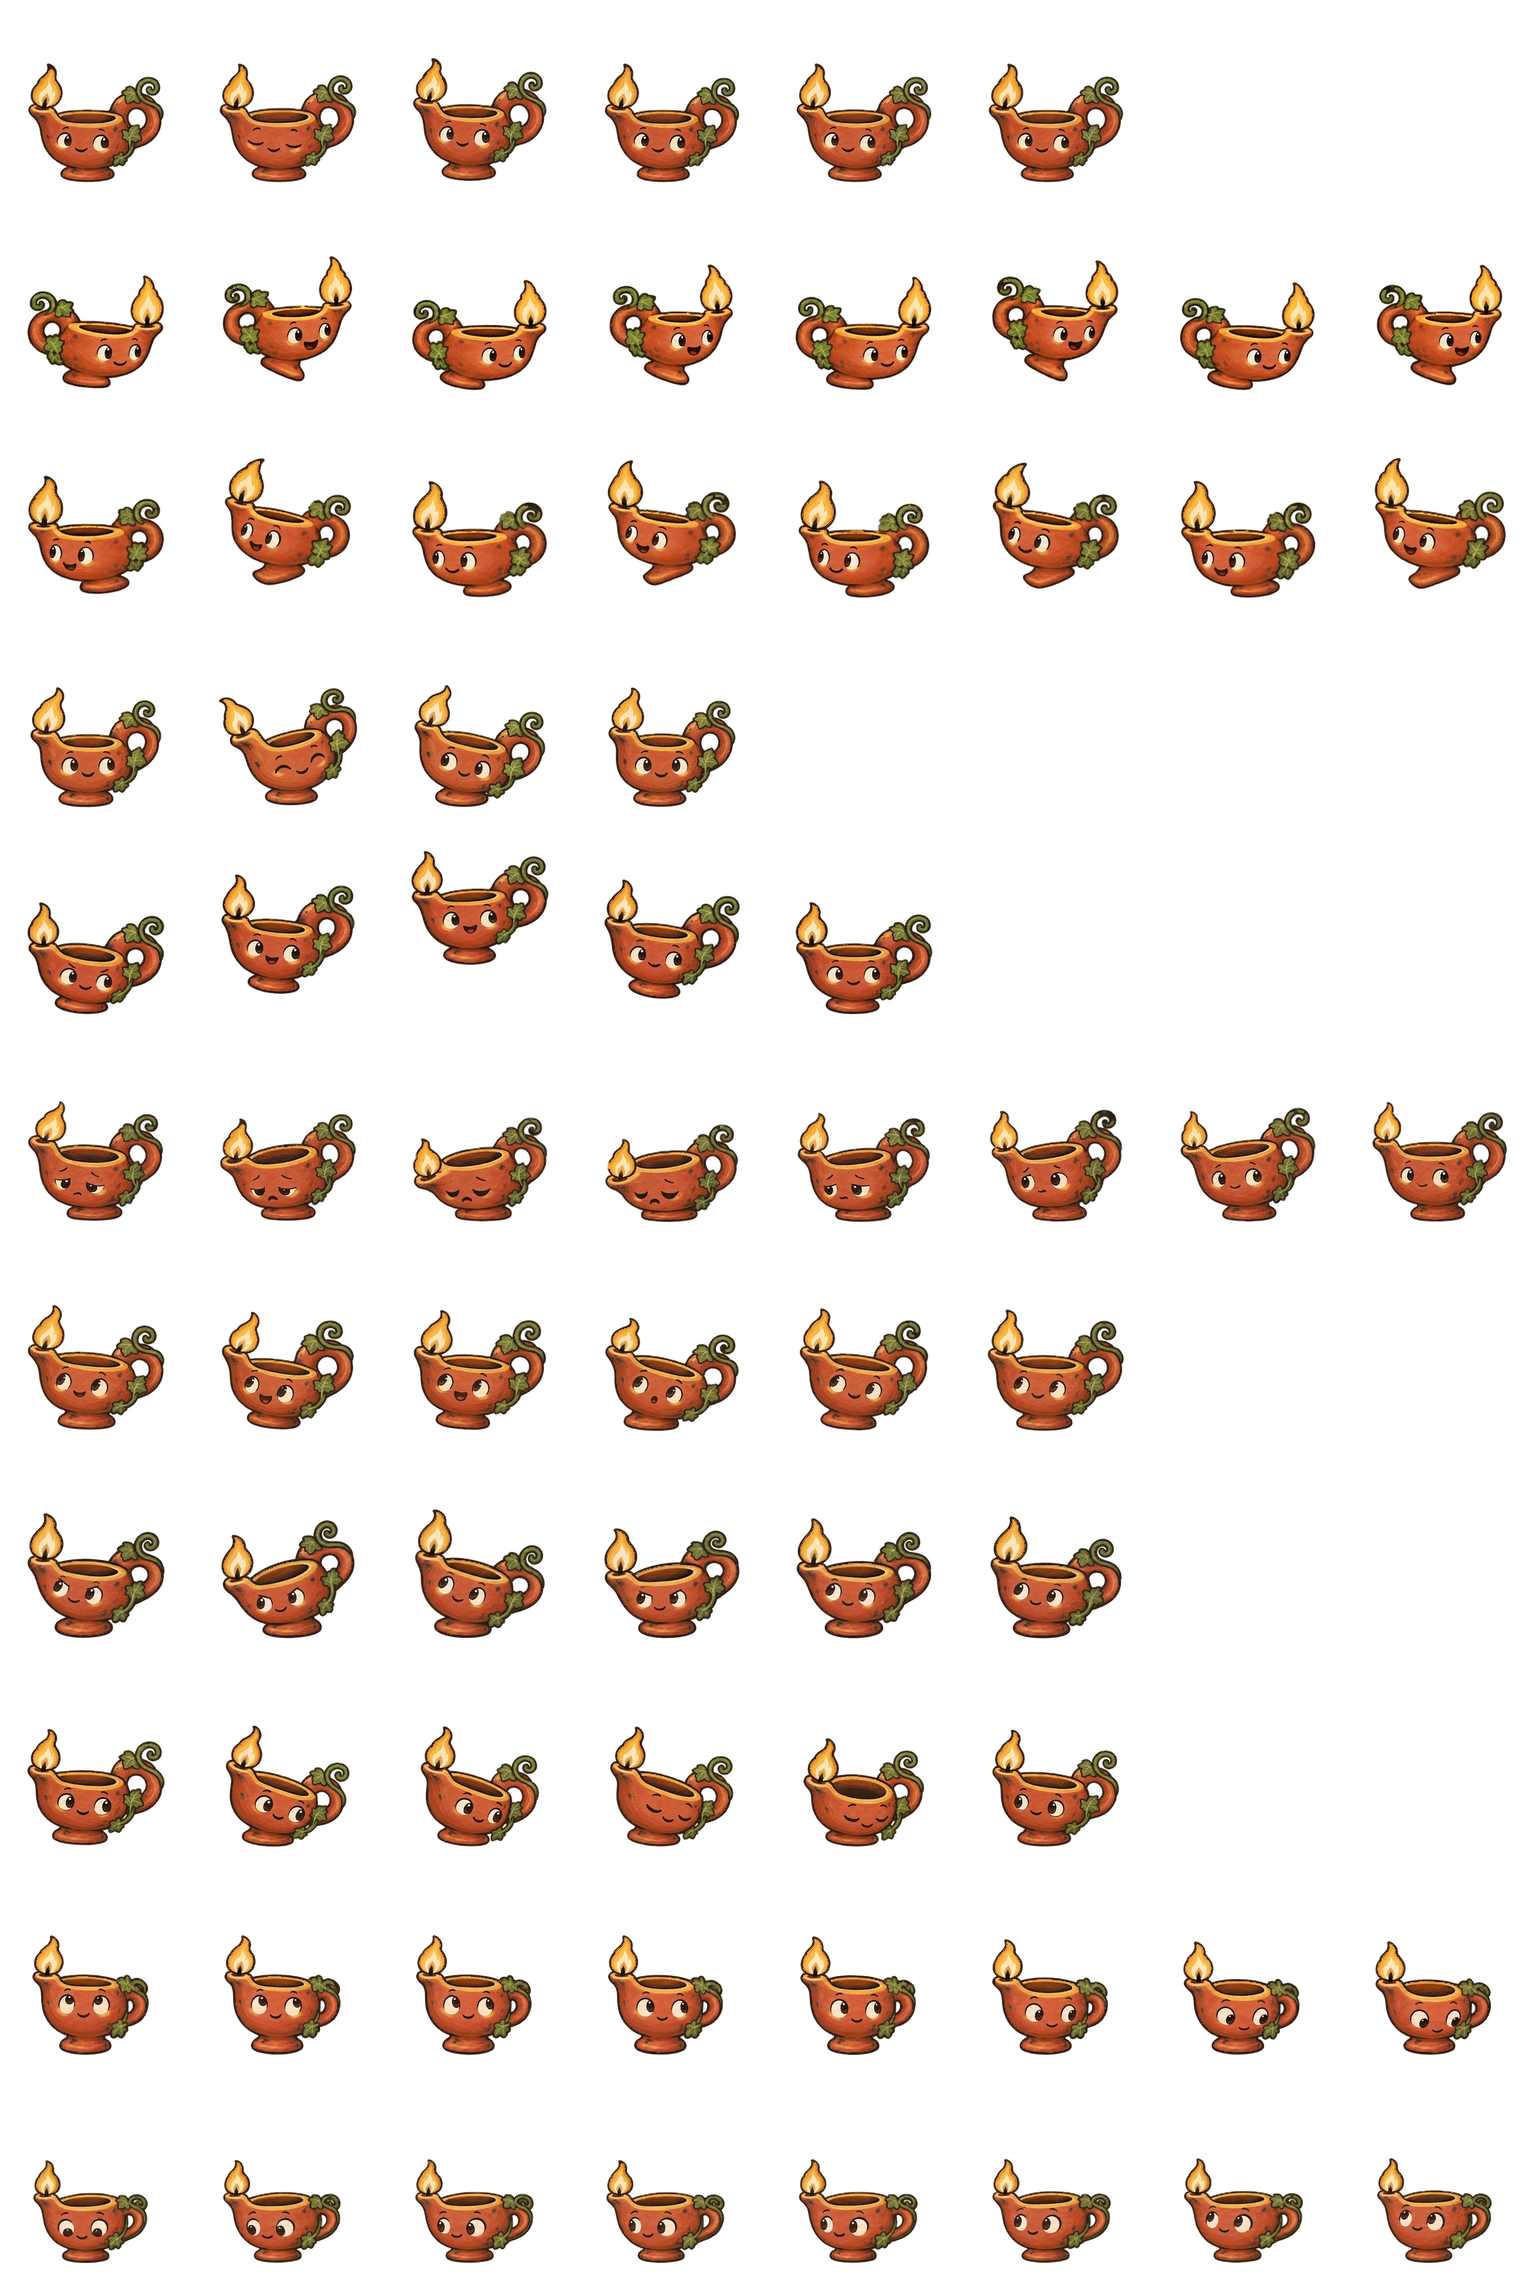
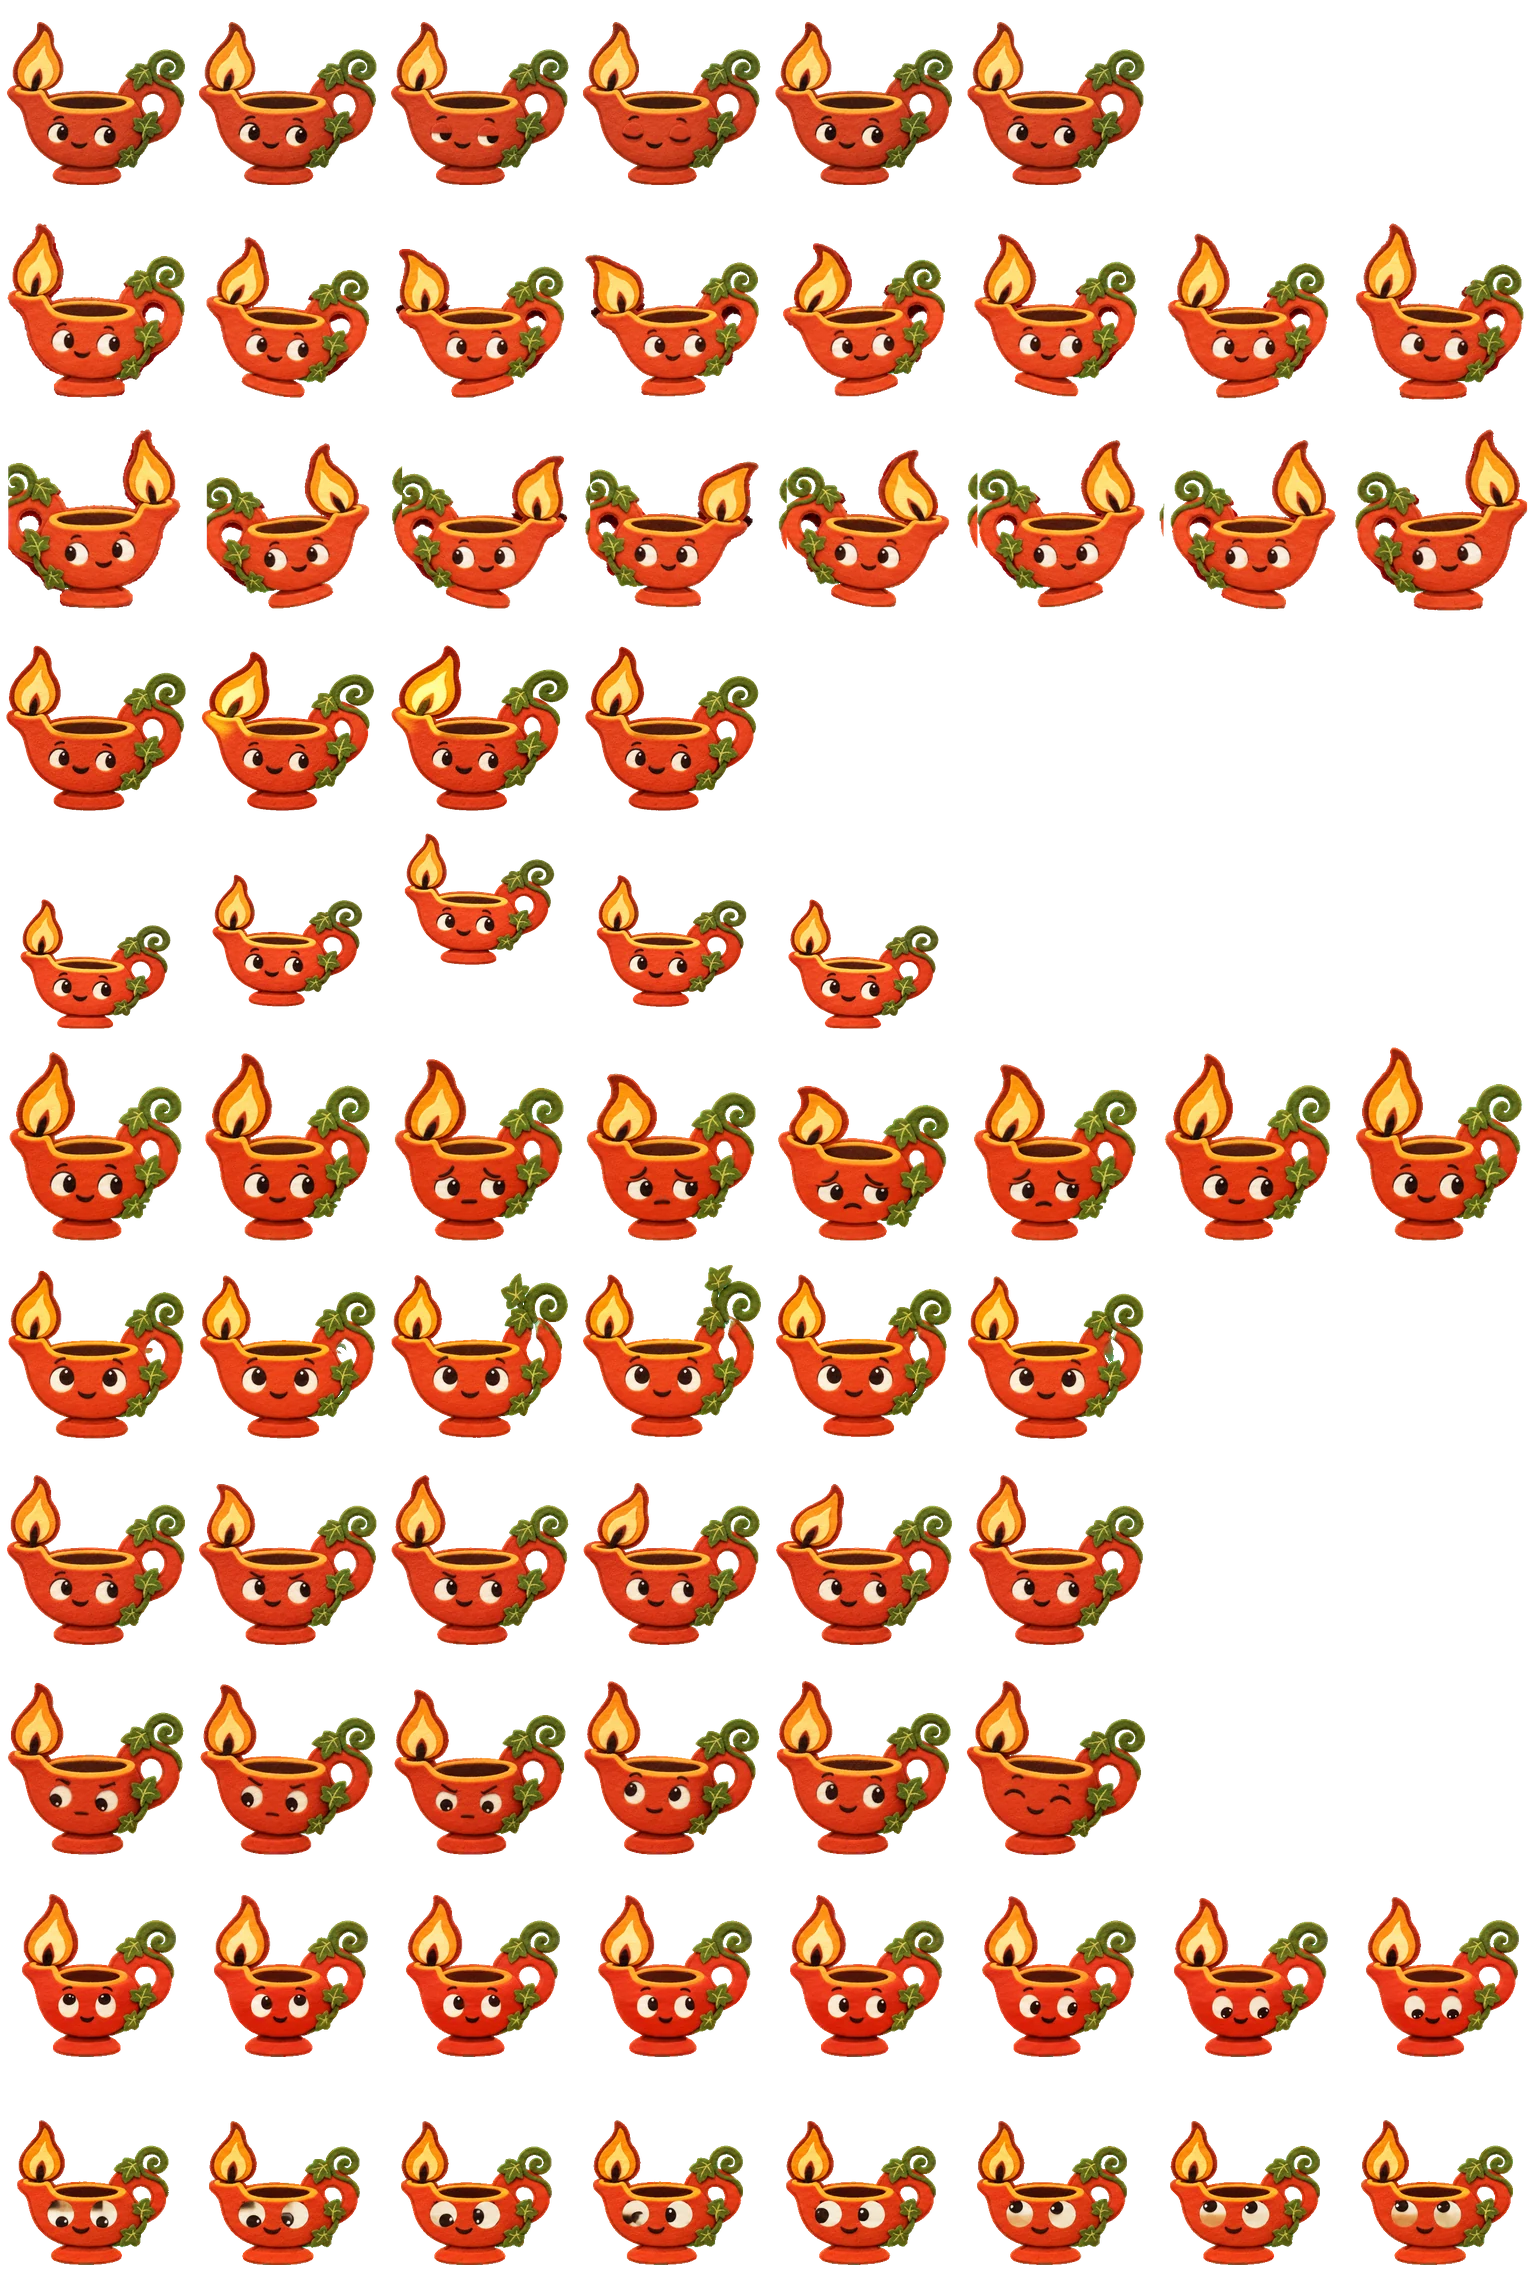
Pets: Madeleine, the Bible School Teacher redrawn [skip ci]
Madeleine followed as a Sunday-school flannelgraph in cut felt. Paul signed off the sheet ("sign off"). Lossy WebP q88, 679,522 bytes, alpha bit-identical (mean error 5.3/255); the 25 sheets total 21,657,588 bytes. pet-metrics.json and the making-of golden regenerated.

diff --git a/docs/marginarium-pets.md b/docs/marginarium-pets.md
@@ -212,6 +212,7 @@ Lossy WebP at quality 88 (alpha bit-identical; checked at 1x and 5x on light and
[4 lines of base64/hex data omitted]
 
-The Baba Yaga followed as a Russian lubok woodblock print. George followed as a Ballets Russes costume sketch in gouache. The twenty-eight sheets total
-**21,776,814 bytes (20.77 MiB)** of the 24 MiB budget.
+The Baba Yaga followed as a Russian lubok woodblock print. George followed as a Ballets Russes costume sketch in gouache. Madeleine followed as a Sunday-school flannelgraph in cut felt. The twenty-eight sheets total
+**21,657,588 bytes (20.65 MiB)** of the 24 MiB budget.
